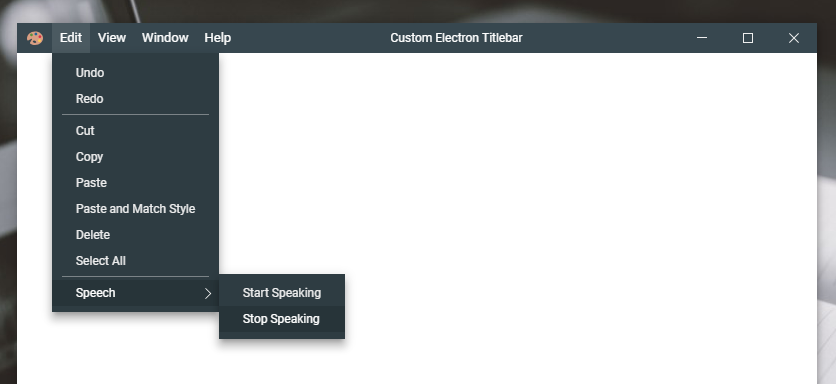
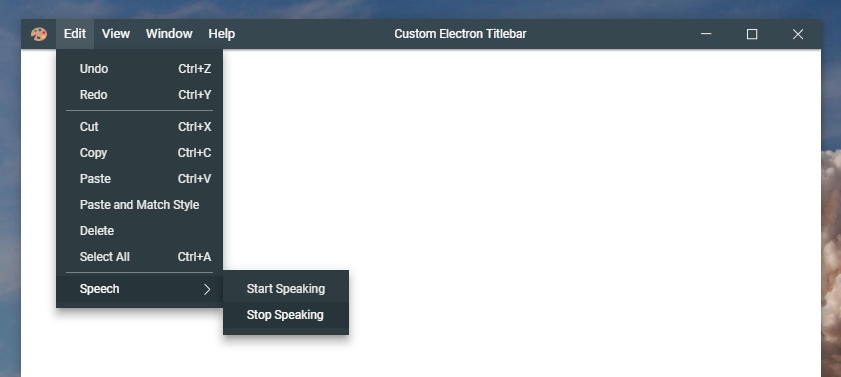
updatePackages();

Changed region(s): [[0.0, 0.0, 1.0, 1.0], [0.2488, 0.817, 0.4354, 0.9045], [0.2799, 0.7294, 0.4043, 0.7878]]

diff --git a/example/main.js b/example/main.js
@@ -28,7 +28,6 @@ electron_1.app.on('activate', function () {
 var template = [
     {
         label: 'Edit',
-        enabled: false,
         submenu: [
             { role: 'undo' },
             { role: 'redo' },
@@ -61,11 +60,8 @@ var template = [
             { role: 'zoomout' },
             { type: 'separator' },
             {
-                label: 'Toggle Full Screen',
-                type: 'checkbox',
-                enabled: false,
-                accelerator: 'F11',
-                click: function () { mainWindow.setFullScreen(!mainWindow.isFullScreen()); }
+                role: 'togglefullscreen',
+                enabled: false
             }
         ]
     },
@@ -81,7 +77,6 @@ var template = [
         submenu: [
             {
                 label: 'Learn More',
-                accelerator: 'CtrlOrCmd+E',
                 click: function () { require('electron').shell.openExternal('https://electronjs.org'); }
             }
         ]

diff --git a/example/main.ts b/example/main.ts
@@ -35,7 +35,6 @@ app.on('activate', () => {
 const template: MenuItemConstructorOptions[] = [
   {
     label: 'Edit',
-    enabled: false,
     submenu: [
       {role: 'undo'},
       {role: 'redo'},
@@ -68,11 +67,8 @@ const template: MenuItemConstructorOptions[] = [
       {role: 'zoomout'},
       {type: 'separator'},
       {
-        label: 'Toggle Full Screen',
-        type: 'checkbox',
+        role: 'togglefullscreen',
         enabled: false,
-        accelerator: 'F11',
-        click() { mainWindow.setFullScreen(!mainWindow.isFullScreen()) }
       }
     ]
   },
@@ -88,7 +84,6 @@ const template: MenuItemConstructorOptions[] = [
     submenu: [
       {
         label: 'Learn More',
-        accelerator: 'CtrlOrCmd+E',
         click() { require('electron').shell.openExternal('https://electronjs.org') }
       }
     ]
